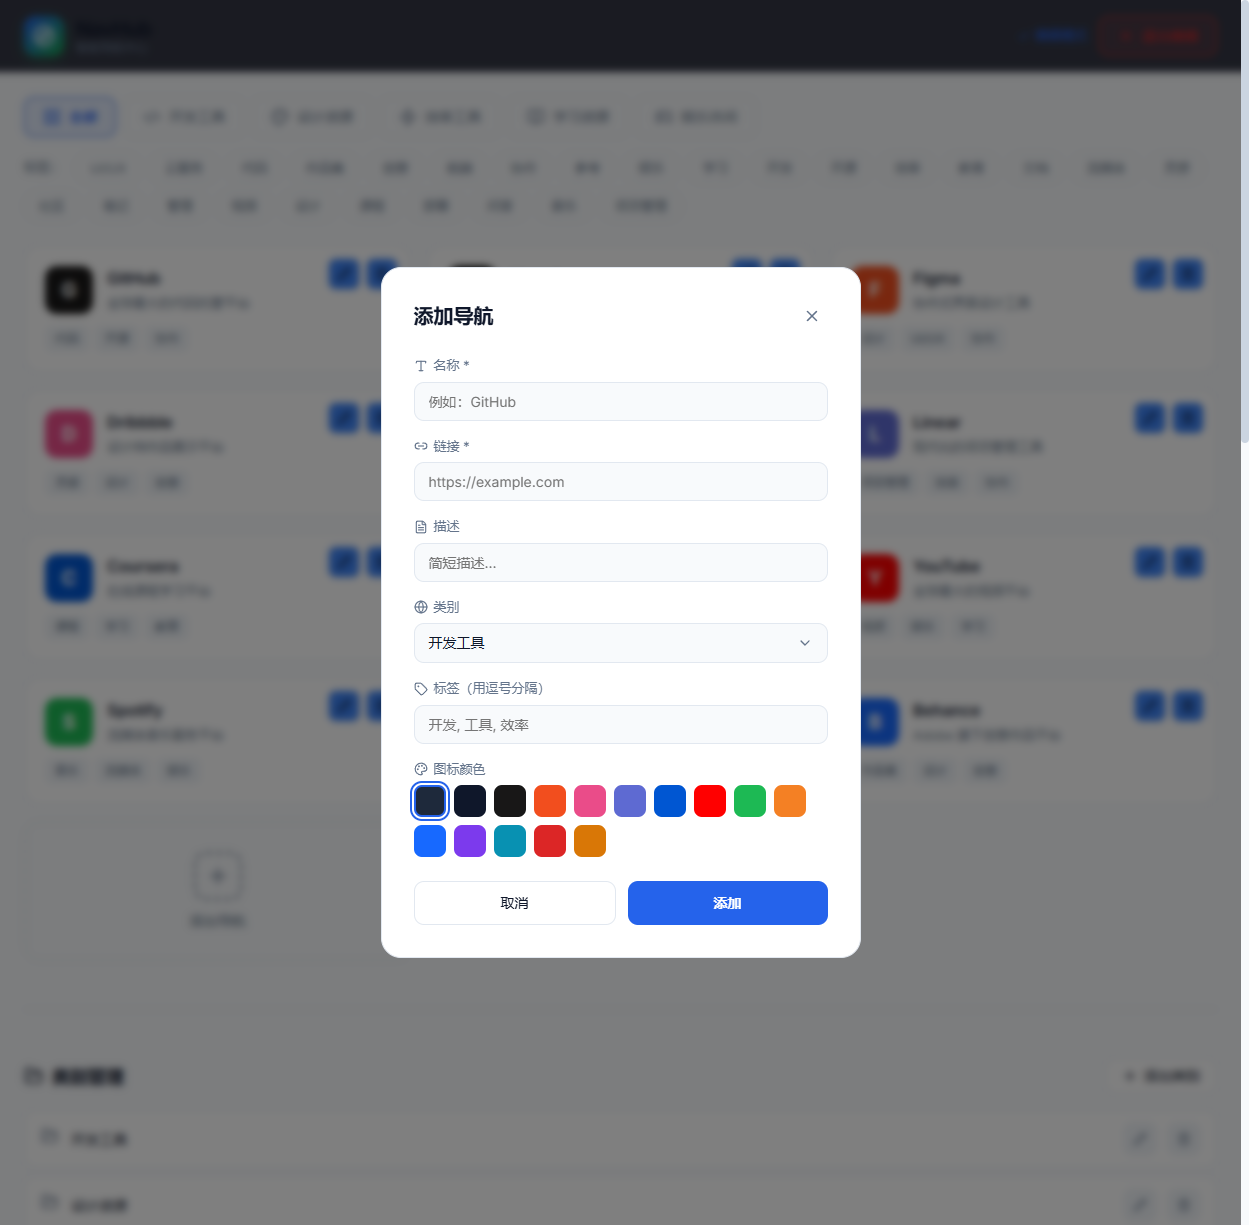
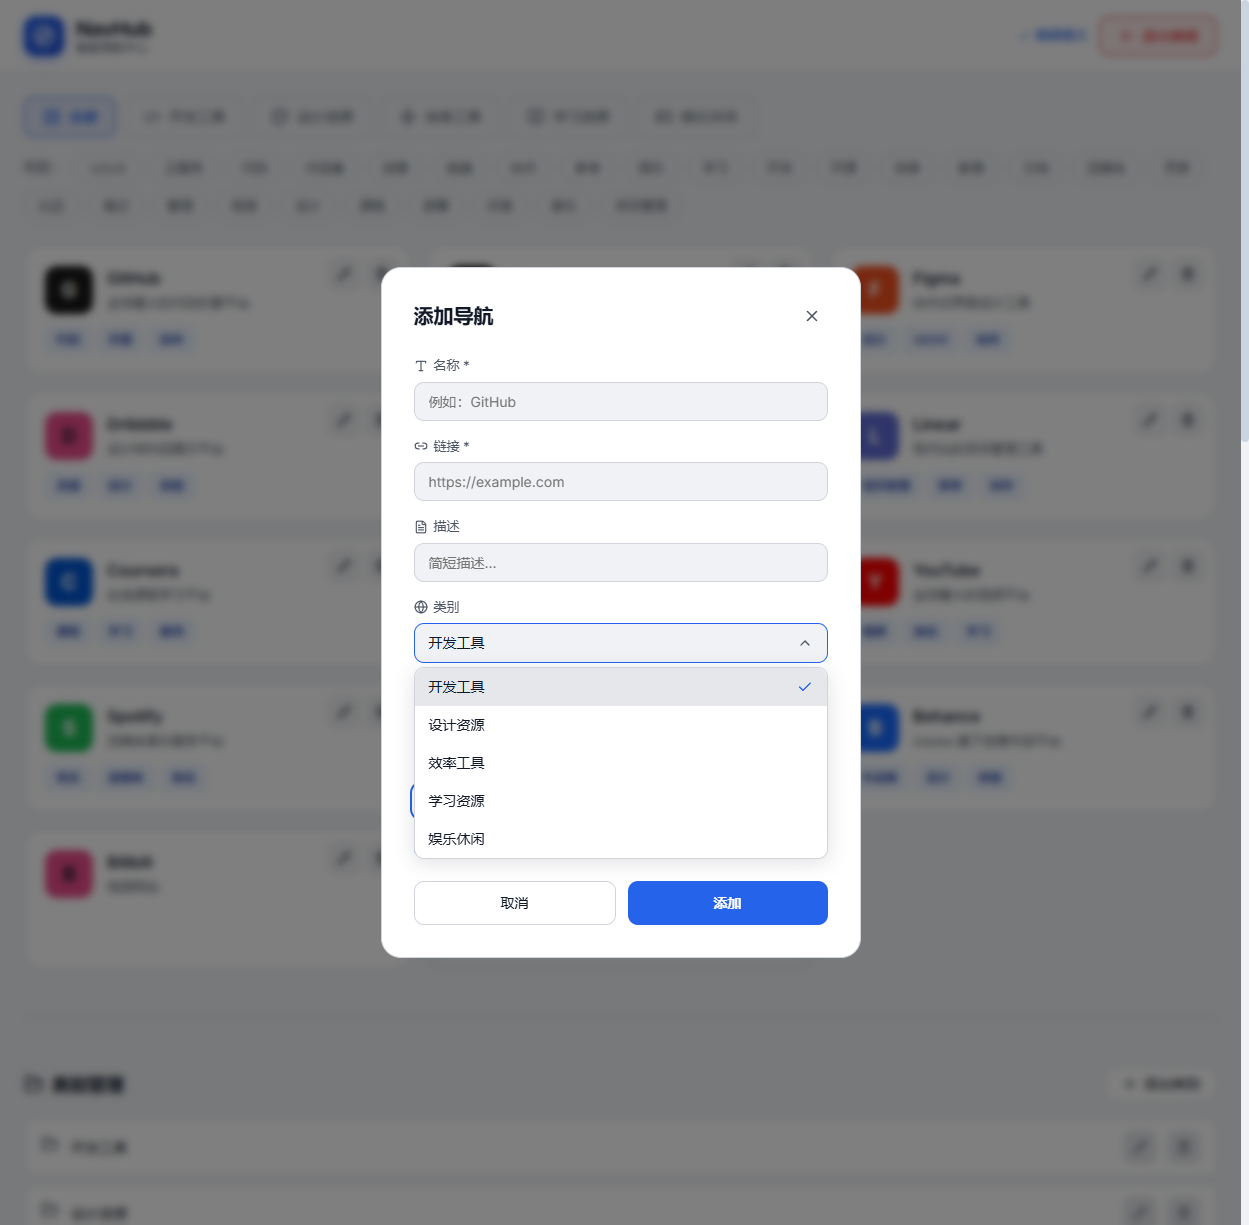
docs: update README layout and refresh screenshots
- Add project logo at the top of README

- Re-layout screenshots in a gallery grid

- Capture fresh screenshots from current UI

- Add logo.svg asset for README rendering

diff --git a/README.md b/README.md
@@ -1,7 +1,7 @@
 # NavHub - 智能导航中心
 
 <p align="center">
-  <img src="docs/screenshots/home.png" alt="NavHub 首页" width="800">
+  <img src="src/assets/logo.svg" alt="NavHub" width="80" height="80">
 </p>
 
 <p align="center">
@@ -25,33 +25,13 @@
 
 ## 界面预览
 
-### 首页浏览
+| 首页浏览 | 编辑模式 |
+|:--------:|:--------:|
+| <img src="docs/screenshots/home.png" alt="首页" width="400"> | <img src="docs/screenshots/edit-mode.png" alt="编辑模式" width="400"> |
 
-<p align="center">
-  <img src="docs/screenshots/home.png" alt="首页" width="800">
-</p>
-
-### 编辑模式
-
-<p align="center">
-  <img src="docs/screenshots/edit-mode.png" alt="编辑模式" width="800">
-</p>
-
-### 添加/编辑导航
-
-<p align="center">
-  <img src="docs/screenshots/add-modal.png" alt="添加导航弹窗" width="600">
-</p>
-
-### 分类与标签管理
-
-<p align="center">
-  <img src="docs/screenshots/custom-select.png" alt="图标选择器" width="600">
-</p>
-
-<p align="center">
-  <img src="docs/screenshots/tag-manager.png" alt="标签管理" width="600">
-</p>
+| 添加导航 | 分类下拉选择 | 标签管理 |
+|:--------:|:------------:|:--------:|
+| <img src="docs/screenshots/add-modal.png" alt="添加导航" width="260"> | <img src="docs/screenshots/custom-select.png" alt="分类下拉选择" width="260"> | <img src="docs/screenshots/tag-manager.png" alt="标签管理" width="260"> |
 
 ## 技术栈
 
